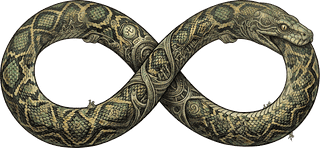
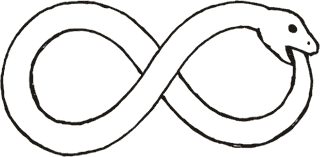
Site: the line-drawn ouroboros replaces the cover cutout beside chapter titles
The cutout of the cover art's serpent read too dark next to a title.
chapter-snake.png now comes from resources/chapter-snake-source.png,
Bruce's hand drawing of the infinity ouroboros: make_cover.py's
snake_from_drawing() turns each pixel's darkness into opacity and
its color into the site's ink, so the paper drops out and the
anti-aliased edges survive; --snake writes that file alone. Both
cover modes use it, snake_cutout() and the cover-art raster are
gone, and template.html's background-size follows the new 320:157
ratio. The EPUB and PDF pick the PNG up unchanged.

diff --git a/template.html b/template.html
@@ -83,15 +83,15 @@
       margin-bottom: 0.3rem;
     }
 
-    /* The cover's serpent, to the left of the chapter title
+    /* The line-drawn serpent, to the left of the chapter title
        (chapter-snake.png, from tools/make_cover.py; its ratio is
-       320:148). A background and not an <img>, so the title's text
+       320:157). A background and not an <img>, so the title's text
        and the link preview's copy of this heading stay as they
        were; the child selector keeps it off that copy. On a narrow
        screen it sits above the title, where it takes no width from
        a long word such as "Metaprogramming". */
     .page > h1 {
-      background: url(chapter-snake.png) no-repeat left 0.08em / 2.16em 1em;
+      background: url(chapter-snake.png) no-repeat left 0.08em / 2.04em 1em;
       padding-left: 2.5em;
     }
     @media (max-width: 600px) {

diff --git a/tools/make_cover.py b/tools/make_cover.py
@@ -30,8 +30,10 @@ either family:
               green, in the cover art's palette),
               chapter-ornament.svg/.png (the band of scales
               under each chapter title), chapter-snake.png (the
-              serpent alone on a transparent ground, which the
-              site sets to the left of each chapter title)
+              line-drawn serpent from
+              resources/chapter-snake-source.png, its ink in the
+              site's INK on a transparent ground, which the site
+              sets to the left of each chapter title)
 
 Text is set in Palatino Linotype, which ships with Windows and
 macOS; regenerate on a machine that has it.
@@ -39,6 +41,7 @@ macOS; regenerate on a machine that has it.
 Usage:
     uv run python -m tools.make_cover            # everything
     uv run python -m tools.make_cover --preview  # small PNG only
+    uv run python -m tools.make_cover --snake    # chapter-snake.png only
 """
 
 import argparse
@@ -85,8 +88,11 @@ DRAWN_FILES = ("cover.svg", "cover-eink.svg", "cover-letter.svg",
 ART_FILES = ("cover-color.jpg", "cover-eink.jpg",
              "cover-letter.jpg", "cover-art.jpg",
              "social-preview.jpg")
-# The serpent beside each chapter title on the site. Drawn at
-# about 100 CSS px wide, so 320 covers a 3x display.
+# The serpent beside each chapter title on the site: a hand
+# drawing, black ink on white, that becomes INK on a transparent
+# ground. Set at about 100 CSS px wide, so 320 covers a 3x
+# display.
+SNAKE_SOURCE = ROOT / "resources" / "chapter-snake-source.png"
 SNAKE_FILE = "chapter-snake.png"
 SNAKE_WIDTH = 320
 
@@ -249,49 +255,34 @@ def art_outputs(preview: bool) -> None:
     site.thumbnail((1100, 1100))
     site.save(STATIC / "cover-art.jpg", quality=84,
               optimize=True)
-    save_snake(snake_cutout(img, bg))
     social(img, bg)
     for stale in DRAWN_FILES:
         (STATIC / stale).unlink(missing_ok=True)
 
 
-def snake_cutout(img, bg: str, tolerance: int = 24):
-    """The serpent alone, cropped tight, its paper transparent.
+def snake_from_drawing():
+    """The chapter-title serpent from its drawing: every pixel's
+    darkness becomes its opacity, its color the site's INK, and
+    the paper drops out.
 
-    Paper is any pixel within `tolerance` of the sampled
-    background on every channel. A paper region counts as the
-    page only when it is large: the ground around the serpent
-    and the hole inside each loop qualify, while a pale scale
-    does not, so highlights stay opaque. The serpent is then
-    whatever connects to the image's center, where the loops
-    cross, which drops any stray mark that does not touch it.
+    The drawing is black ink on white, so luminance alone
+    separates ink from paper: a pixel lighter than PAPER_FLOOR
+    is paper and turns transparent, and a darker one keeps an
+    opacity proportional to its darkness, which preserves the
+    drawing's anti-aliased edges. The result is cropped tight,
+    as the cover cutout it replaced was, so template.html's
+    background-size sets its ratio.
     """
-    from PIL import Image, ImageChops, ImageDraw
+    from PIL import Image
 
-    rgb = img.convert("RGB")
-    w, h = rgb.size
-    flat = Image.new("RGB", rgb.size, bg)
-    r, g, b = ImageChops.difference(rgb, flat).split()
-    worst = ImageChops.lighter(ImageChops.lighter(r, g), b)
-    # 255 is unvisited paper, 0 is art; PAGE and SMALL mark the
-    # paper regions already measured.
-    PAGE, SMALL, PROBE = 200, 50, 128
-    regions = worst.point(
-        lambda v: 255 if v < tolerance else 0)
-    for y in range(4, h, 16):
-        for x in range(4, w, 16):
-            if regions.getpixel((x, y)) != 255:
-                continue
-            ImageDraw.floodfill(regions, (x, y), PROBE)
-            area = regions.histogram()[PROBE]
-            mark = PAGE if area > w * h // 200 else SMALL
-            regions = regions.point(
-                lambda v: mark if v == PROBE else v)
-    solid = regions.point(lambda v: 0 if v == PAGE else 255)
-    ImageDraw.floodfill(solid, (w // 2, h // 2), PROBE)
-    alpha = solid.point(lambda v: 255 if v == PROBE else 0)
-    rgb.putalpha(alpha)
-    return rgb.crop(alpha.getbbox())
+    PAPER_FLOOR = 240
+    lum = Image.open(SNAKE_SOURCE).convert("L")
+    alpha = lum.point(
+        lambda v: 0 if v >= PAPER_FLOOR
+        else min(255, round((PAPER_FLOOR - v) * 255 / 220)))
+    snake = Image.new("RGB", lum.size, INK)
+    snake.putalpha(alpha)
+    return snake.crop(alpha.getbbox())
 
 
 def save_snake(snake) -> None:
@@ -547,8 +538,6 @@ def eink(svg: str) -> str:
 
 
 def drawn_outputs(preview: bool) -> None:
-    from PIL import Image
-
     master = cover_svg()
     (STATIC / "cover.svg").write_text(master, encoding="utf-8", newline="\n")
     if preview:
@@ -570,14 +559,6 @@ def drawn_outputs(preview: bool) -> None:
     # of the art (Kindle will not draw SVG).
     rasterize(STATIC / "cover-art.svg",
               STATIC / "cover-art.png", 900)
-    # art_svg() has no background, so its raster is the serpent
-    # on a transparent ground as it stands.
-    snake_png = TEMP / "snake.png"
-    TEMP.mkdir(parents=True, exist_ok=True)
-    rasterize(STATIC / "cover-art.svg", snake_png,
-              SNAKE_WIDTH * 2)
-    snake = Image.open(snake_png).convert("RGBA")
-    save_snake(snake.crop(snake.getbbox()))
     for stale in ART_FILES:
         (STATIC / stale).unlink(missing_ok=True)
 
@@ -627,9 +608,16 @@ def main(argv: list[str] | None = None) -> int:
     ap = argparse.ArgumentParser(description=__doc__)
     ap.add_argument("--preview", action="store_true",
                     help="write a small preview PNG only")
+    ap.add_argument("--snake", action="store_true",
+                    help="write chapter-snake.png only")
     args = ap.parse_args(argv)
 
     STATIC.mkdir(parents=True, exist_ok=True)
+    if args.snake:
+        save_snake(snake_from_drawing())
+        size = (STATIC / SNAKE_FILE).stat().st_size
+        print(f"{SNAKE_FILE}: {size / 1024:.0f} KB")
+        return 0
     if ART_SOURCE.exists():
         print(f"art mode: {ART_SOURCE.relative_to(ROOT)}")
         art_outputs(args.preview)
@@ -648,6 +636,7 @@ def main(argv: list[str] | None = None) -> int:
     # ornament (Kindle will not draw SVG).
     rasterize(STATIC / "chapter-ornament.svg",
               STATIC / "chapter-ornament.png", 500)
+    save_snake(snake_from_drawing())
     for name in (*made, "favicon.svg", "chapter-ornament.svg",
                  "chapter-ornament.png", SNAKE_FILE):
         size = (STATIC / name).stat().st_size

diff --git a/tools/README.md b/tools/README.md
@@ -1382,12 +1382,15 @@ a band of diamond scales that sits under every chapter title, the SVG
 on the site (template.html) and the PNG in the PDF and EPUBs
 (injected by build_epub.py's shared assembly, which also places the
 cover art on each Part divider page). And `chapter-snake.png`: the
-serpent alone on a transparent ground, 320 px wide, which
-template.html sets to the left of each chapter title on the site (and
-above it on a narrow screen). In art mode `snake_cutout()` makes it
-from `cover-source.jpg` with Pillow alone: the paper around the
-serpent and inside each loop becomes transparent, and the image is
-cropped to what remains. The EPUBs set it on its own line under each
+line-drawn serpent from `resources/chapter-snake-source.png`, 320 px
+wide, which template.html sets to the left of each chapter title on
+the site (and above it on a narrow screen). `snake_from_drawing()`
+makes it in either mode with Pillow alone: each pixel's darkness
+becomes its opacity and its color the site's ink, so the paper drops
+out and the drawing's anti-aliased edges survive, and the image is
+cropped to what remains; `--snake` writes it alone. It replaced a
+cutout of the cover art's serpent on 2026-09-30, which read too dark
+beside a title. The EPUBs set it on its own line under each
 chapter title, above the ornament, and the PDF under the ornament
 band that underlines the title. The index page does
 not use it. `--preview` writes a small `cover-preview.png` for quick
